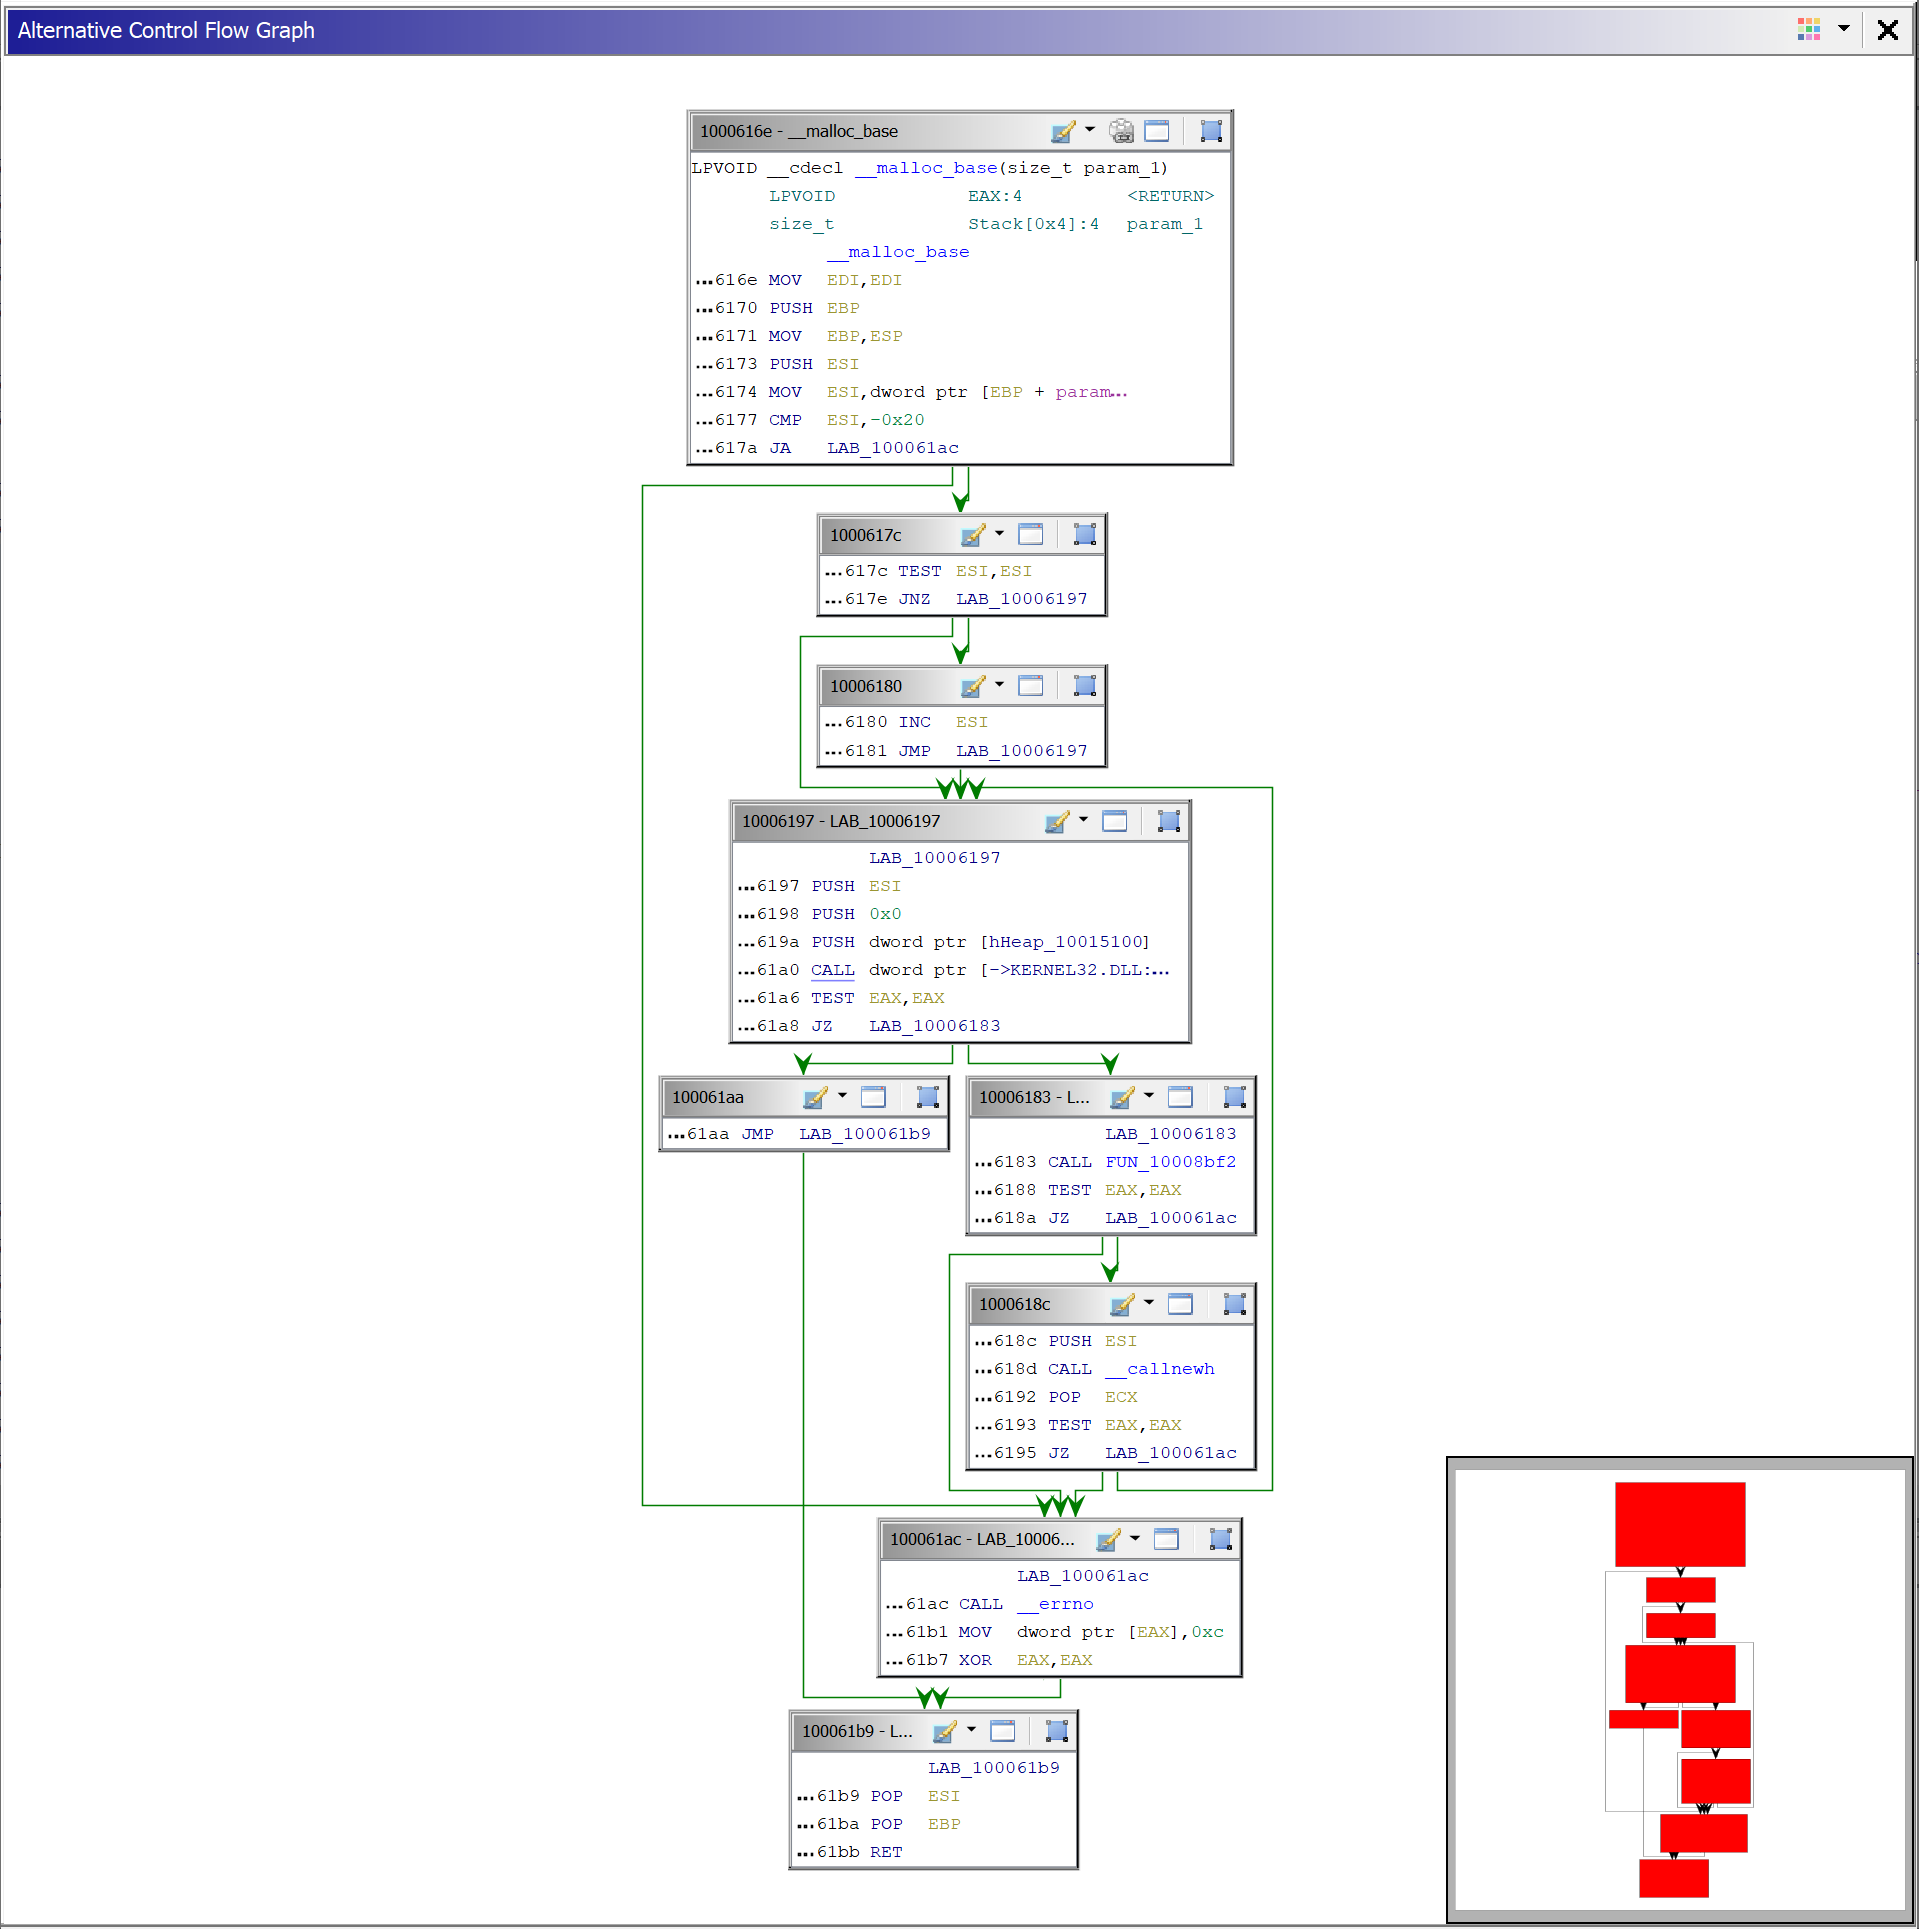
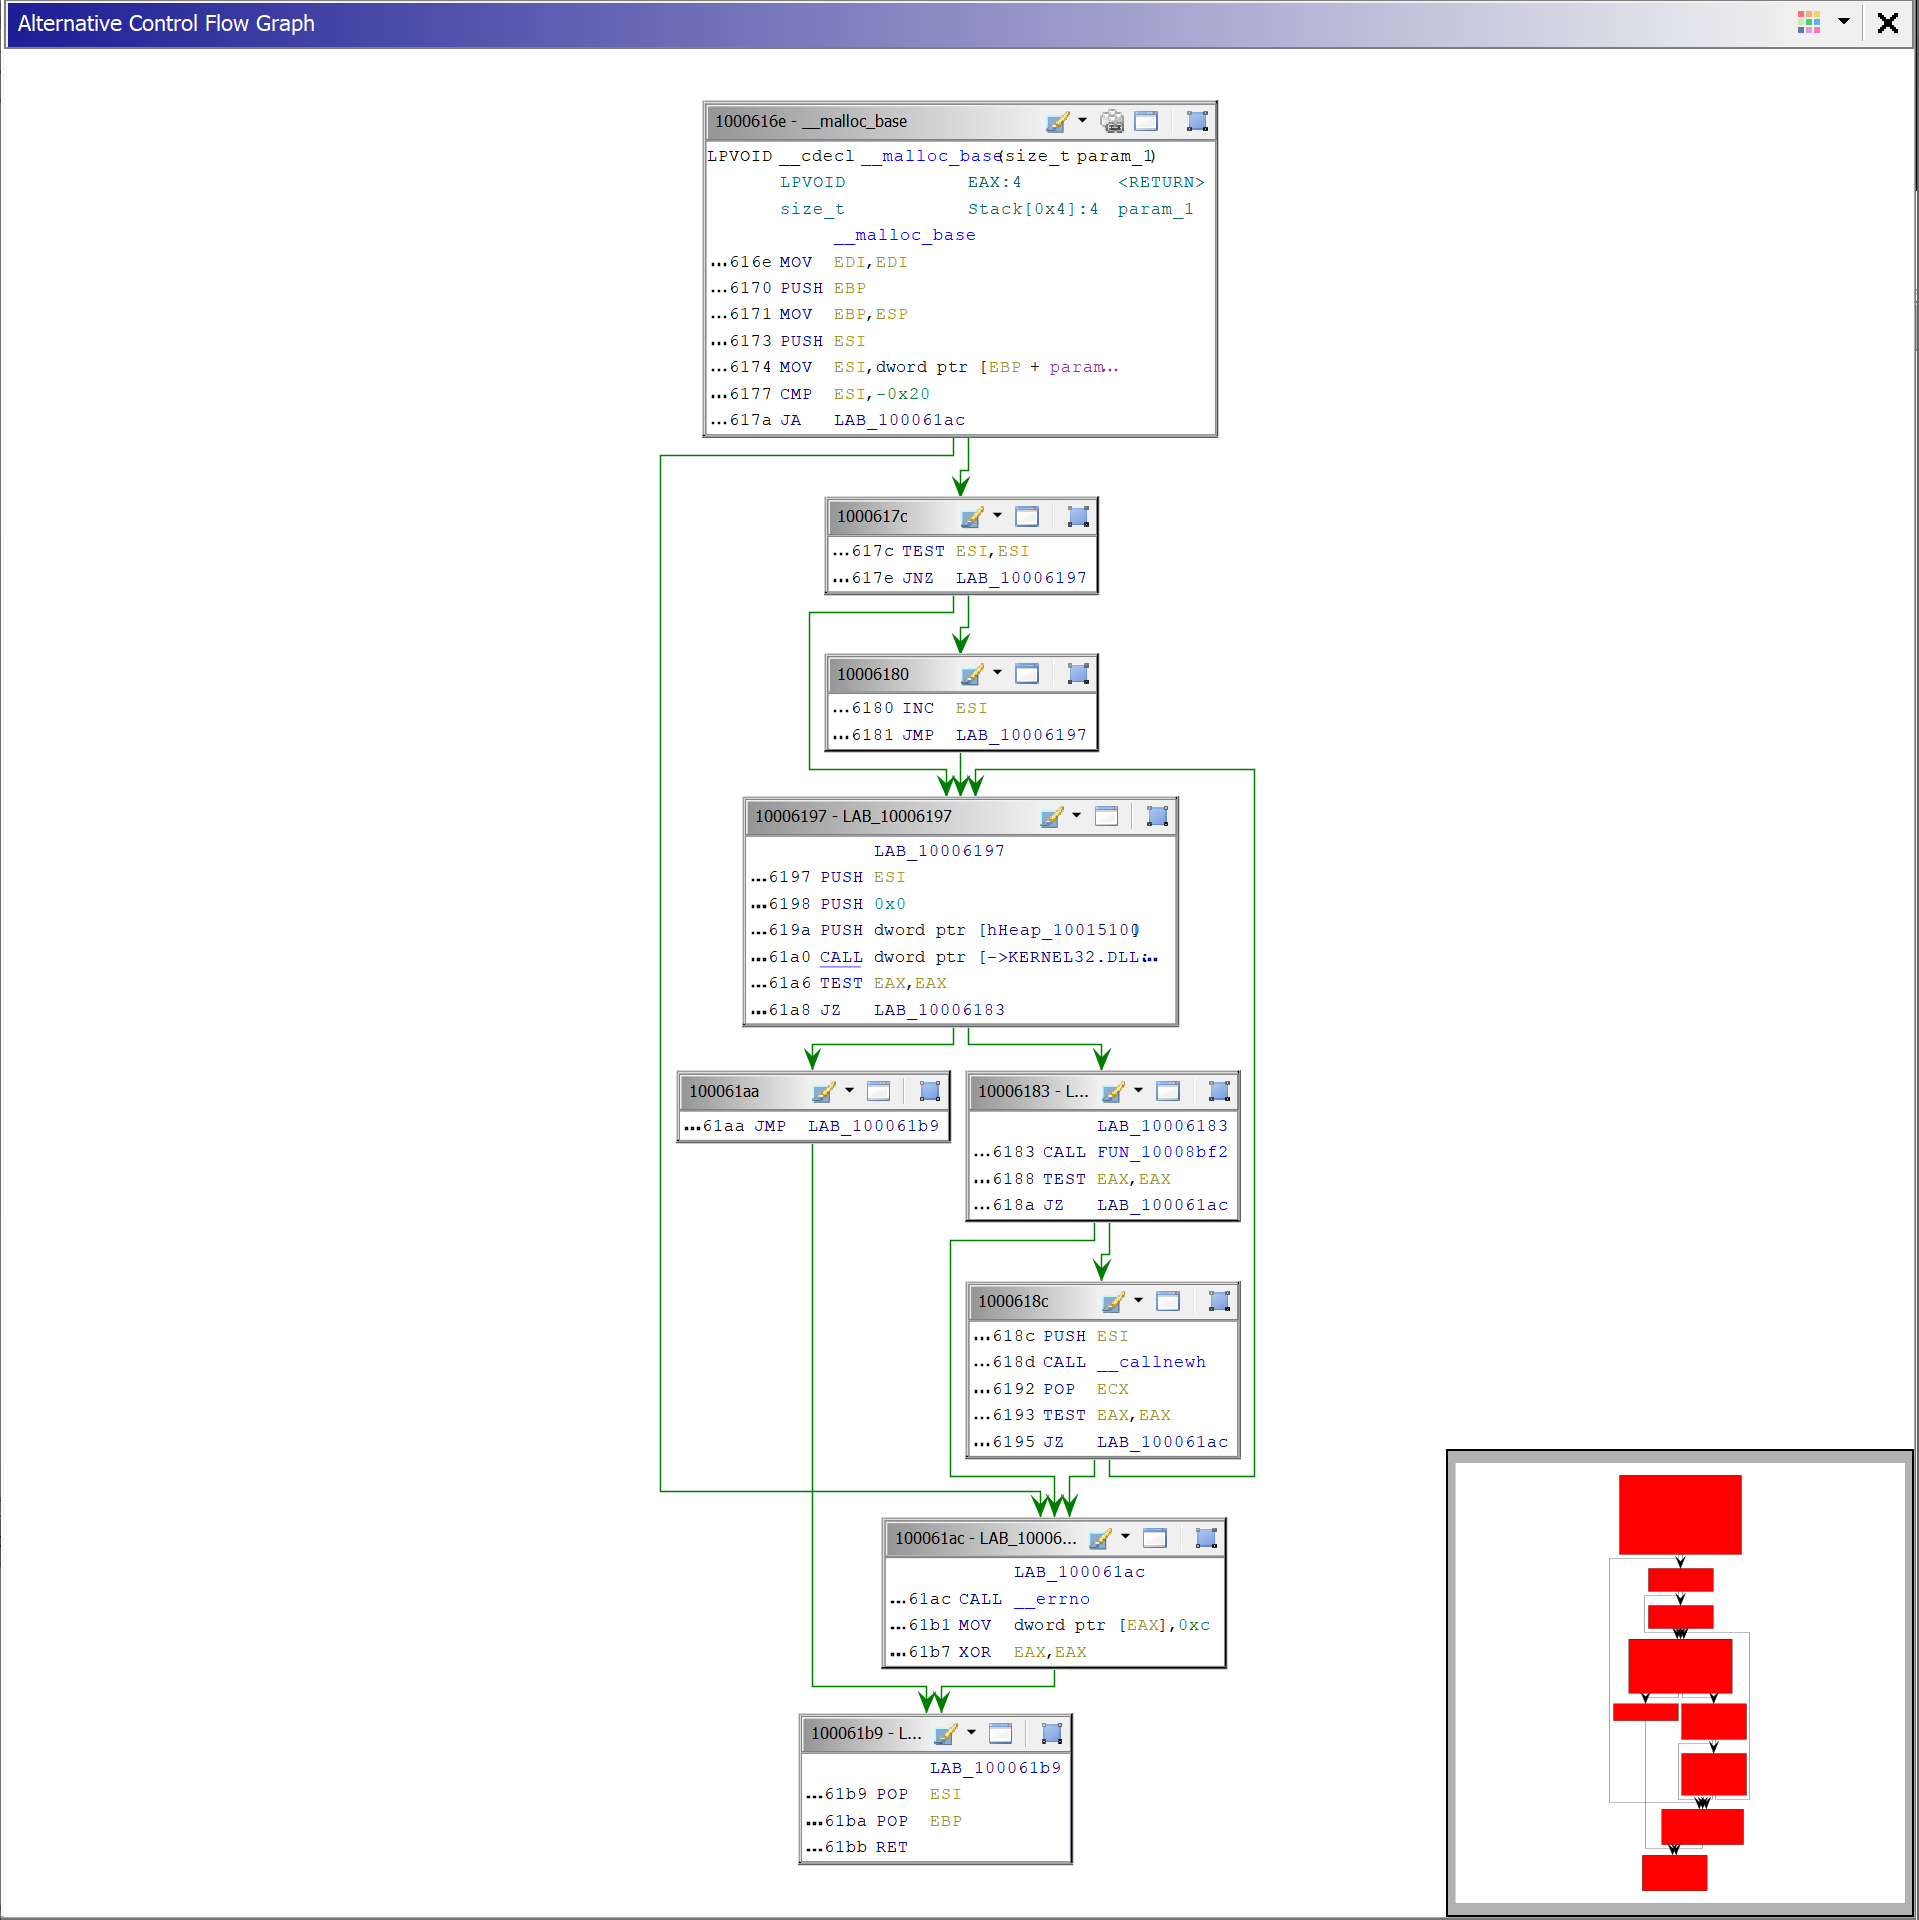
added offset for incomming Lines

diff --git a/CFGCoreGCC/src/CFGCoreGCC.cpp b/CFGCoreGCC/src/CFGCoreGCC.cpp
@@ -21,6 +21,7 @@
 
 #include "CFG.h"
 #include "CFGEdge.h"
+#include "settings.h"
 
 using namespace std;
 
@@ -96,7 +97,7 @@ int main() {
         	}
         	for (unsigned int i = 0; i < numNodes;i++)
         	{
-        		CFGNode *node = new CFGNode(str1[i].width, str1[i].height, i);
+        		CFGNode *node = new CFGNode(str1[i].width, str1[i].height + InVerticalLineOffset, i);
         		cfg.addNode(*node);
         	}
         	free(str1);
@@ -140,7 +141,7 @@ int main() {
         	{
         		NodeInfoStructBack s;
         		s.x = elem->getx();
-        		s.y = elem->gety();
+        		s.y = elem->gety() + InVerticalLineOffset;
             	if (WriteFile(hPipe, &s, sizeof(s), &dwRead, NULL) == FALSE || sizeof(s) != dwRead)
             	{
             		printf("pipe Error send Node. (%lu)", GetLastError());

diff --git a/CFGCoreGCC/src/settings.h b/CFGCoreGCC/src/settings.h
@@ -21,6 +21,8 @@ static const unsigned int horizontalLineOffset = 10; //this is the space between
 
 static const unsigned int IOhorizontalLineOffset = 10; //this is the space between the lines when they go out and come into a Node
 
+static const unsigned int InVerticalLineOffset = 10; //this is the space between the lines when they go out and come into a Node
+
 static const unsigned int verticalNodeOffset = 10; //this is the space between 2 Nodes Vertical
 
 static const unsigned int horizontalverticalNodeOffset = 10; //this is the space between 2 Nodes Horizontal

diff --git a/README.md b/README.md
@@ -7,6 +7,8 @@ Start Ghidra then click on File/Install Extension/+ and then choose the Plugin z
 
 ## Examples 
 
+ghidra Function Graph vs Alternative Control Flow Graph
+
 ![example1Old](./screenshots/qsort.png)
 ![example1Alt](./screenshots/qsortAlt.png)
 ![example2Old](./screenshots/wcsncmp.png)
